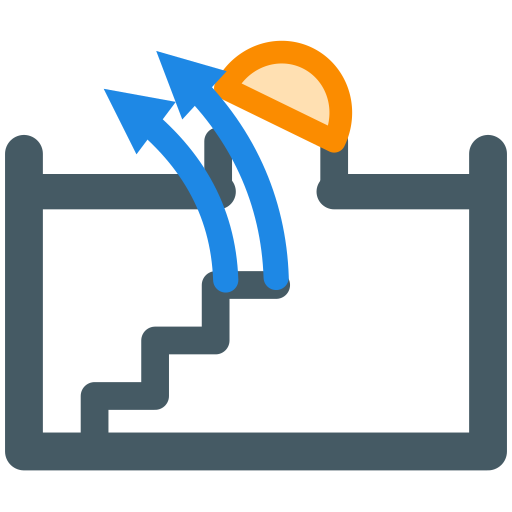
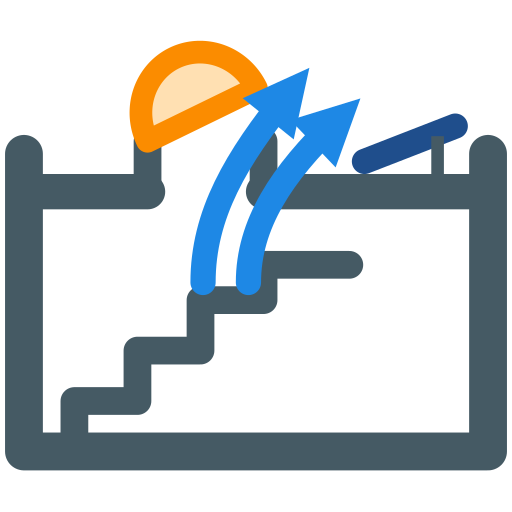
Représenter l'immeuble réel dans la carte et l'icône (v0.3.2)
- Coupe du milieu du niveau 3 jusqu'au toit plat, escalier montant de
  gauche à droite jusqu'au niveau 4
- Coupole au centre gauche, charnière à gauche
- Panneaux solaires sur le toit et station Ecowitt WS90 sur son mât
- Icône redessinée dans le même sens

Claude-Session: https://claude.ai/code/session_01NWzDZb3eUXsT12bFPqEKAE

Changed region(s): [[0.0938, 0.0625, 0.9375, 0.8438]]

diff --git a/custom_components/ventilation_desenfumage/frontend/ventilation-desenfumage-card.js b/custom_components/ventilation_desenfumage/frontend/ventilation-desenfumage-card.js
@@ -9,7 +9,7 @@
  * sont lues dans l'attribut « entites » du capteur de décision.
  */
 
-const CARD_VERSION = "0.3.1";
+const CARD_VERSION = "0.3.2";
 
 const LEVEL_COLORS = {
   alarme: "var(--error-color, #db4437)",
@@ -32,11 +32,14 @@ const SHORT_LABEL = {
 const SEASON_LABEL = { froid: "Froid", normal: "Normal", canicule: "Canicule" };
 const SEASON_ICON = { froid: "mdi:snowflake", normal: "mdi:weather-partly-cloudy", canicule: "mdi:white-balance-sunny" };
 
-// Géométrie de la scène (viewBox 400 x 240) : toit plat, coupole sur costière
-const ROOF_Y = 136; // dessus de la dalle
-const DOME_L = 172; // bord gauche de la costière
-const DOME_R = 248; // bord droit = charnière de la coupole
-const DOME_Y = 116; // haut de la costière (appui de la coupole)
+// Géométrie de la scène (viewBox 400 x 260) : coupe de l'immeuble du milieu du
+// niveau 3 jusqu'au toit plat. Escalier montant de gauche à droite jusqu'au
+// niveau 4, coupole au centre gauche avec charnière à gauche.
+const ROOF_Y = 104; // dessus de la dalle du toit
+const FLOOR4_Y = 184; // dessus de la dalle du niveau 4
+const DOME_L = 112; // bord gauche de la costière = charnière
+const DOME_R = 188; // bord droit de la costière
+const DOME_Y = 86; // haut de la costière (appui de la coupole)
 const DOME_H = 26; // hauteur de la coupole
 
 function num(st) {
@@ -173,11 +176,17 @@ class VentilationDesenfumageCard extends HTMLElement {
       if (!isNaN(d)) ovText = d.toLocaleTimeString([], { hour: "2-digit", minute: "2-digit" });
     }
 
-    // --- Coupole : rotation autour de la charnière droite, le côté gauche se soulève
+    // --- Coupole : rotation autour de la charnière gauche, le côté droit se soulève
     const rad = (angle * Math.PI) / 180;
     const arm = 0.55 * (DOME_R - DOME_L); // point d'attache du vérin sur le cadre
-    const jackTop = { x: DOME_R - arm * Math.cos(rad), y: DOME_Y - arm * Math.sin(rad) };
+    const jackTop = { x: DOME_L + arm * Math.cos(rad), y: DOME_Y - arm * Math.sin(rad) };
     const domeW = DOME_R - DOME_L;
+    // Escalier : du milieu du niveau 3 (bas de la vue) au niveau 4, de gauche à droite
+    const steps = [];
+    let sx = 34, sy = 260;
+    for (let i = 0; i < 8; i++) { steps.push(`${sx},${sy}`); sy -= 10; steps.push(`${sx},${sy}`); sx += 22; }
+    steps.push(`${sx},${sy}`);
+    const stairEndX = sx;
 
     const pipeline = trace
       .map((t) => {
@@ -199,80 +208,98 @@ class VentilationDesenfumageCard extends HTMLElement {
           </div>
         </div>
 
-        <svg class="scene" viewBox="0 0 400 240" role="img" aria-label="${esc(doorText)}">
+        <svg class="scene" viewBox="0 0 400 260" role="img" aria-label="${esc(doorText)}">
           <defs>
             <linearGradient id="sky" x1="0" y1="0" x2="0" y2="1">
               <stop offset="0" stop-color="${night ? "#1b2440" : "#9fd3f5"}"/>
               <stop offset="1" stop-color="${night ? "#2e3b63" : "#dff1fc"}"/>
             </linearGradient>
-            <clipPath id="inside"><rect x="56" y="146" width="288" height="94"/></clipPath>
           </defs>
 
-          <rect x="0" y="0" width="400" height="240" fill="url(#sky)" opacity="0.55"/>
+          <rect x="0" y="0" width="400" height="${ROOF_Y}" fill="url(#sky)" opacity="0.55"/>
           ${night
-            ? `<circle cx="352" cy="34" r="13" fill="#f4f1d0"/><circle cx="358" cy="29" r="12" fill="#2a3659" opacity="0.9"/>`
-            : `<circle cx="352" cy="34" r="14" fill="#ffc94a"/>`}
+            ? `<circle cx="24" cy="22" r="11" fill="#f4f1d0"/><circle cx="29" cy="18" r="10" fill="#2a3659" opacity="0.9"/>`
+            : `<circle cx="24" cy="22" r="12" fill="#ffc94a"/>`}
 
           ${windy ? `<g class="wind">
-              <path d="M84 22 Q130 12 176 22" /><path d="M96 44 Q140 34 184 44" /><path d="M0 84 Q36 76 72 84" />
+              <path d="M60 84 Q90 76 120 84" /><path d="M150 16 Q196 6 242 16" /><path d="M200 70 Q240 62 270 70" />
             </g>` : ""}
 
-          ${raining ? `<g class="rain">${[20, 60, 100, 140, 300, 340, 380, 170, 240].map((x, i) =>
+          ${raining ? `<g class="rain">${[20, 70, 100, 140, 210, 250, 300, 340, 380].map((x, i) =>
             `<line x1="${x}" y1="${-10 - (i % 3) * 25}" x2="${x - 6}" y2="${4 - (i % 3) * 25}" style="animation-delay:${(i * 0.17).toFixed(2)}s"/>`).join("")}</g>` : ""}
 
-          <!-- intérieur (dernier étage) -->
-          <rect x="50" y="146" width="300" height="94" class="inside"/>
-          <g clip-path="url(#inside)">
-            <polyline class="stairs" points="66,240 66,218 100,218 100,194 134,194 134,170 ${DOME_L + 4},170 ${DOME_L + 4},150"/>
-          </g>
+          <!-- intérieur : niveau 4 et moitié du niveau 3 -->
+          <rect x="22" y="${ROOF_Y}" width="356" height="${260 - ROOF_Y}" class="inside"/>
+          <text x="32" y="${ROOF_Y + 24}" class="cap">Niveau 4</text>
+          <text x="${stairEndX + 20}" y="${FLOOR4_Y + 26}" class="cap">Niveau 3</text>
 
-          <!-- dalle (trémie sous la coupole), acrotères et murs -->
-          <polyline class="roof" points="40,${ROOF_Y + 5} ${DOME_L},${ROOF_Y + 5}"/>
-          <polyline class="roof" points="${DOME_R},${ROOF_Y + 5} 360,${ROOF_Y + 5}"/>
-          <polyline class="wall" points="44,${ROOF_Y - 12} 44,240"/>
-          <polyline class="wall" points="356,${ROOF_Y - 12} 356,240"/>
+          <!-- escalier (monte de gauche à droite jusqu'au niveau 4) -->
+          <polyline class="stairs" points="${steps.join(" ")}"/>
+
+          <!-- dalles : niveau 4 (trémie de l'escalier) et toit (trémie de la coupole) -->
+          <polyline class="slab" points="${stairEndX},${FLOOR4_Y + 5} 378,${FLOOR4_Y + 5}"/>
+          <polyline class="roof" points="16,${ROOF_Y + 5} ${DOME_L},${ROOF_Y + 5}"/>
+          <polyline class="roof" points="${DOME_R},${ROOF_Y + 5} 384,${ROOF_Y + 5}"/>
+          <!-- façades et acrotères -->
+          <polyline class="wall" points="20,${ROOF_Y - 12} 20,260"/>
+          <polyline class="wall" points="380,${ROOF_Y - 12} 380,260"/>
           <!-- costière -->
           <polyline class="curb" points="${DOME_L + 3},${ROOF_Y + 9} ${DOME_L + 3},${DOME_Y}"/>
           <polyline class="curb" points="${DOME_R - 3},${ROOF_Y + 9} ${DOME_R - 3},${DOME_Y}"/>
 
-          <!-- vérin -->
-          <line class="jack" x1="${DOME_L + 10}" y1="${ROOF_Y + 2}" x2="${jackTop.x.toFixed(1)}" y2="${jackTop.y.toFixed(1)}"/>
+          <!-- panneaux solaires -->
+          <g class="pv">
+            ${[206, 248, 290].map((x) => `
+              <line class="leg" x1="${x + 34}" y1="${ROOF_Y}" x2="${x + 34}" y2="${ROOF_Y - 15}"/>
+              <line class="leg" x1="${x + 6}" y1="${ROOF_Y}" x2="${x + 6}" y2="${ROOF_Y - 4}"/>
+              <line class="panel" x1="${x}" y1="${ROOF_Y - 4}" x2="${x + 40}" y2="${ROOF_Y - 18}"/>`).join("")}
+          </g>
 
-          <!-- coupole -->
-          <g class="dome ${isOpen ? "open" : ""} ${doorKnown ? "" : "unknown"}" transform="rotate(${angle} ${DOME_R} ${DOME_Y})">
+          <!-- mât et station Ecowitt WS90 -->
+          <g class="ws90" data-mi="outdoor_temp">
+            <line class="mast" x1="358" y1="${ROOF_Y}" x2="358" y2="38"/>
+            <rect x="348" y="28" width="20" height="12" rx="3" class="head"/>
+            <path d="M346 28 Q358 16 370 28 Z" class="head"/>
+          </g>
+
+          <!-- vérin -->
+          <line class="jack" x1="${DOME_R - 10}" y1="${ROOF_Y + 2}" x2="${jackTop.x.toFixed(1)}" y2="${jackTop.y.toFixed(1)}"/>
+
+          <!-- coupole (charnière à gauche) -->
+          <g class="dome ${isOpen ? "open" : ""} ${doorKnown ? "" : "unknown"}" transform="rotate(${-angle} ${DOME_L} ${DOME_Y})">
             <path d="M${DOME_L} ${DOME_Y} A${domeW / 2} ${DOME_H} 0 0 1 ${DOME_R} ${DOME_Y} Z"/>
             <line x1="${DOME_L - 2}" y1="${DOME_Y}" x2="${DOME_R + 2}" y2="${DOME_Y}" class="rim"/>
             <path d="M${DOME_L + 16} ${DOME_Y - 8} Q${DOME_L + 24} ${DOME_Y - DOME_H + 4} ${DOME_L + 40} ${DOME_Y - DOME_H + 2}" class="shine"/>
           </g>
-          <circle cx="${DOME_R}" cy="${DOME_Y}" r="3.5" class="hinge"/>
+          <circle cx="${DOME_L}" cy="${DOME_Y}" r="3.5" class="hinge"/>
 
           ${isOpen ? `<g class="air">
-              <path d="M196 214 C196 170 196 140 170 40"/>
-              <path d="M218 220 C218 176 214 146 196 54"/>
-              <path d="M176 206 C176 170 172 140 146 66"/>
+              <path d="M150 250 C150 190 150 130 170 98 S206 56 232 40"/>
+              <path d="M176 246 C176 190 176 136 186 108 S216 74 244 62"/>
+              <path d="M124 240 C126 190 132 132 154 100 S188 54 214 26"/>
             </g>` : ""}
 
           <!-- étiquettes -->
           <g class="lbl" data-mi="outdoor_temp">
-            <rect x="8" y="8" width="64" height="${hOut !== null ? 52 : 38}" rx="6"/>
-            <text x="40" y="21" text-anchor="middle" class="cap">Extérieur</text>
-            <text x="40" y="38" text-anchor="middle" class="big">${fmt(tOut, "°")}</text>
-            ${hOut !== null ? `<text x="40" y="53" text-anchor="middle" class="small">${fmt(hOut, " %", 0)}</text>` : ""}
+            <rect x="276" y="8" width="64" height="${hOut !== null ? 52 : 38}" rx="6"/>
+            <text x="308" y="21" text-anchor="middle" class="cap">Extérieur</text>
+            <text x="308" y="38" text-anchor="middle" class="big">${fmt(tOut, "°")}</text>
+            ${hOut !== null ? `<text x="308" y="53" text-anchor="middle" class="small">${fmt(hOut, " %", 0)}</text>` : ""}
           </g>
 
           <g class="lbl" data-mi="indoor_temp">
-            <rect x="262" y="164" width="80" height="${hIn !== null ? 52 : 38}" rx="6"/>
-            <text x="302" y="177" text-anchor="middle" class="cap">Cage d'escalier</text>
-            <text x="302" y="194" text-anchor="middle" class="big">${fmt(tIn, "°")}</text>
-            ${hIn !== null ? `<text x="302" y="209" text-anchor="middle" class="small">${fmt(hIn, " %", 0)}</text>` : ""}
+            <rect x="288" y="122" width="80" height="${hIn !== null ? 52 : 38}" rx="6"/>
+            <text x="328" y="135" text-anchor="middle" class="cap">Cage d'escalier</text>
+            <text x="328" y="152" text-anchor="middle" class="big">${fmt(tIn, "°")}</text>
+            ${hIn !== null ? `<text x="328" y="167" text-anchor="middle" class="small">${fmt(hIn, " %", 0)}</text>` : ""}
           </g>
 
           <g class="lbl door" data-mi="door">
-            <rect x="262" y="88" width="88" height="22" rx="11"/>
-            <text x="306" y="103" text-anchor="middle" class="small b">${esc(doorText)}</text>
+            <rect x="14" y="44" width="88" height="22" rx="11"/>
+            <text x="58" y="59" text-anchor="middle" class="small b">${esc(doorText)}</text>
           </g>
 
-          ${!isArmed ? `<g class="stamp"><rect x="110" y="6" width="180" height="26" rx="13"/><text x="200" y="24" text-anchor="middle">SYSTÈME DÉSARMÉ</text></g>` : ""}
+          ${!isArmed ? `<g class="stamp"><rect x="230" y="222" width="140" height="26" rx="13"/><text x="300" y="240" text-anchor="middle">SYSTÈME DÉSARMÉ</text></g>` : ""}
         </svg>
 
         <div class="chips">
@@ -319,6 +346,11 @@ const STYLE = `
   .roof { fill:none; stroke: var(--primary-text-color,#212121); stroke-width:10; stroke-linecap:butt; opacity:.8; }
   .wall { fill:none; stroke: var(--primary-text-color,#212121); stroke-width:10; opacity:.8; }
   .stairs { fill:none; stroke: var(--secondary-text-color,#727272); stroke-width:6; stroke-linejoin:round; opacity:.6; }
+  .slab { fill:none; stroke: var(--primary-text-color,#212121); stroke-width:10; opacity:.55; }
+  .pv .panel { stroke:#1f4e8c; stroke-width:6; stroke-linecap:round; }
+  .pv .leg, .ws90 .mast { stroke: var(--secondary-text-color,#727272); stroke-width:3; }
+  .ws90 { cursor:pointer; }
+  .ws90 .head { fill: var(--card-background-color,#fff); stroke: var(--secondary-text-color,#727272); stroke-width:2; }
   .curb { fill:none; stroke: var(--primary-text-color,#212121); stroke-width:6; opacity:.8; }
   .dome path:first-child { fill: rgba(160,205,235,.45); stroke: var(--secondary-text-color,#727272); stroke-width:3; }
   .dome .rim { stroke: var(--secondary-text-color,#727272); stroke-width:6; stroke-linecap:round; }

diff --git a/README.md b/README.md
@@ -136,7 +136,7 @@ show_buttons: true               # optionnel : boutons Ouvrir / Fermer / Auto
 
 ![Carte graphique](images/carte.png)
 
-Elle affiche une coupe du toit avec l'ouvrant à son angle réel (capteur d'inclinaison),
+Elle affiche une coupe de l'immeuble (milieu du niveau 3 jusqu'au toit plat) avec l'escalier, les panneaux solaires, le mât de la WS90 et la coupole à son angle réel (capteur d'inclinaison),
 le flux d'air quand l'ouvrant est ouvert, la pluie et le vent, le jour ou la nuit, les
 températures et humidités intérieures et extérieures, le mode saisonnier, l'état armé,
 la commande manuelle en cours, le niveau gagnant du pipeline et les boutons de commande.
